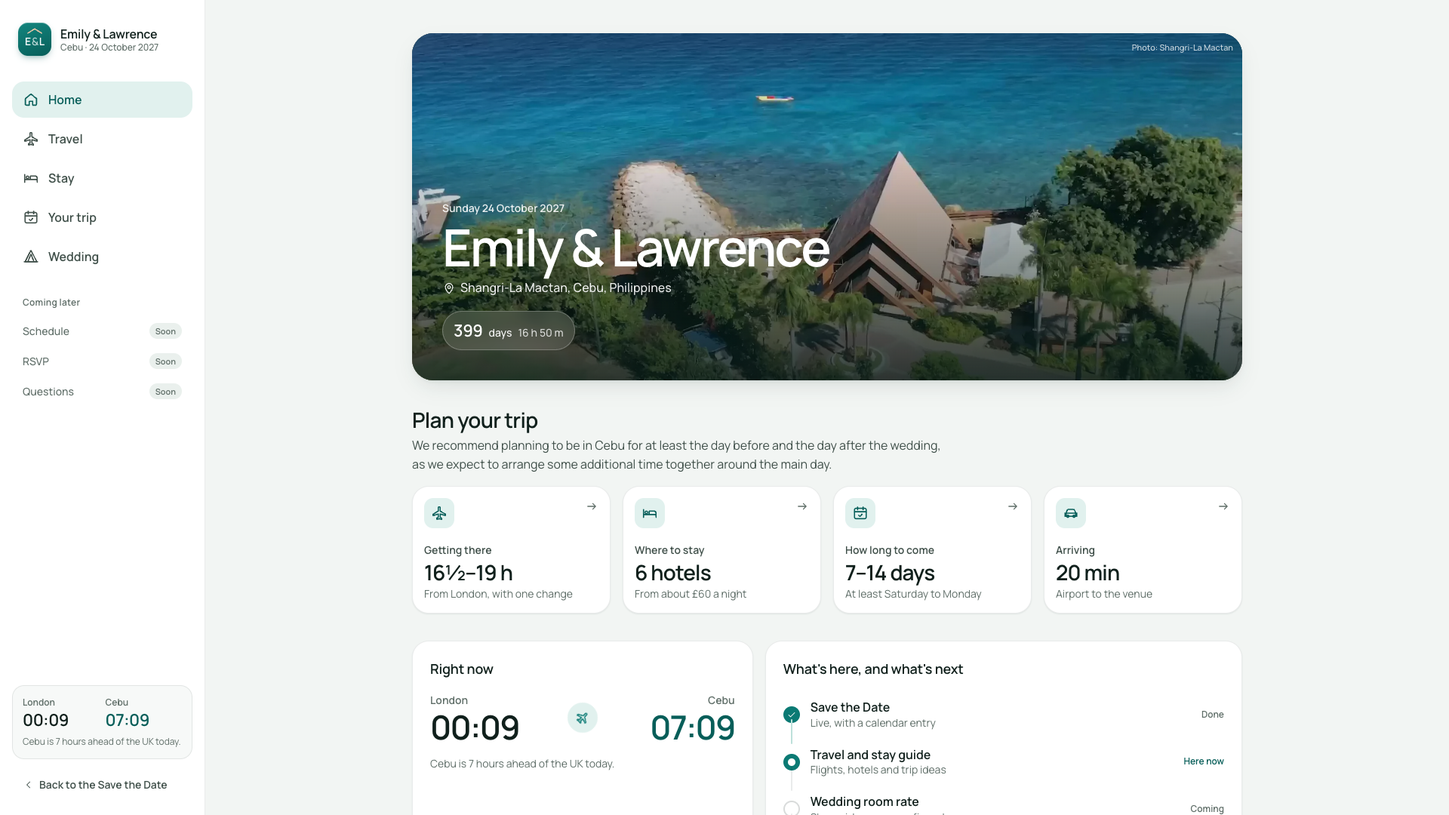
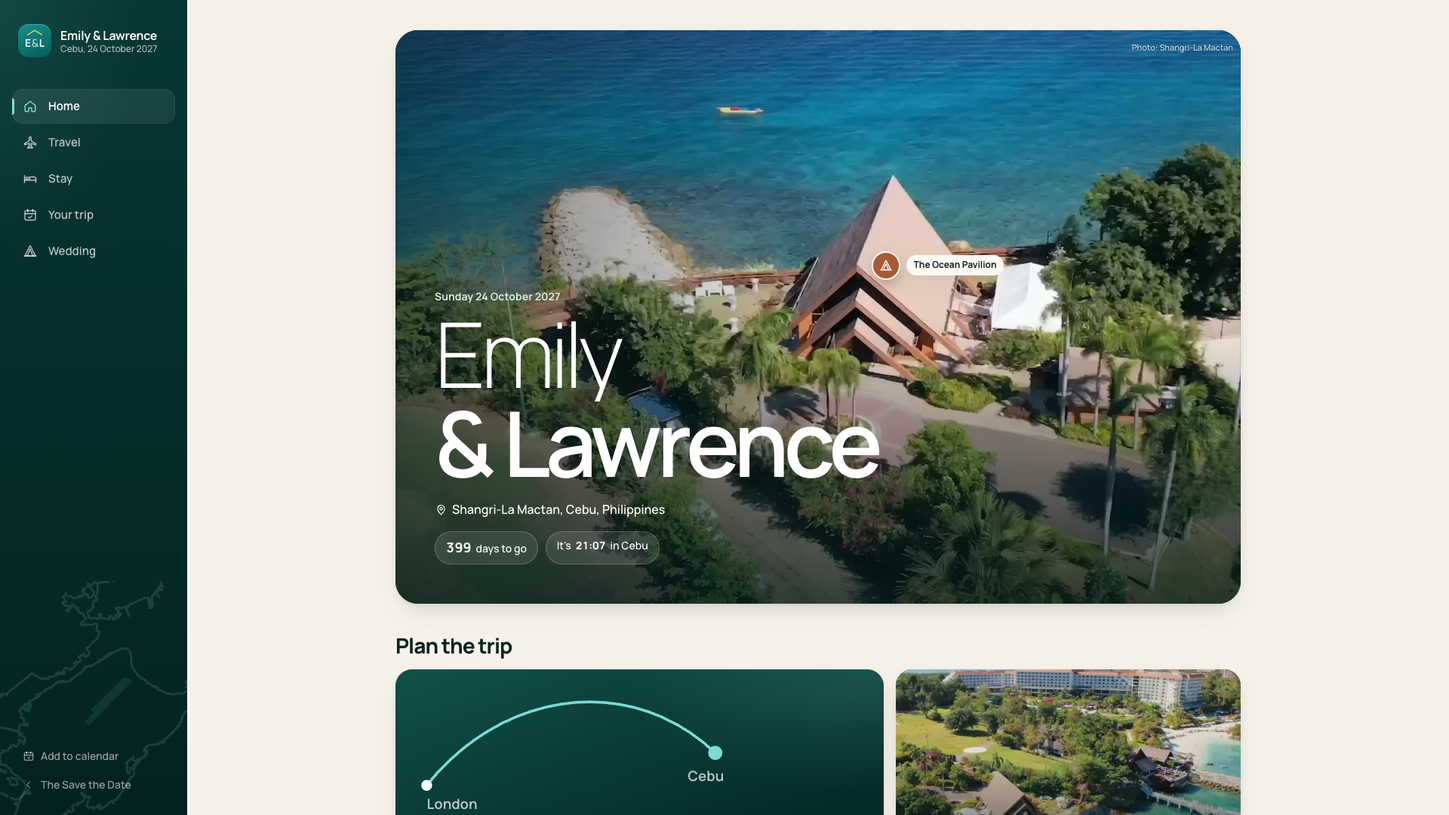
document round 3 with review screenshots

diff --git a/docs/TRAVEL_AND_STAY.md b/docs/TRAVEL_AND_STAY.md
@@ -1,91 +1,104 @@
-# Guest companion (round 2)
+# Guest companion (round 3)
 
-The Wedding website as a product: a guest companion app for a destination wedding. It is a
-separate thing from the Save the Date at `/`, which will link out to it. Built for review on
+The Wedding website as a product: **Emily & Lawrence's Cebu wedding companion**, a small app
+guests move into after the Save the Date at `/` (which will link out to it). Built for review on
 branch `feat/travel-and-stay`; not linked from the invitation yet; `noindex`.
 
-| Screen      | Route       | Job                                                         |
-| ----------- | ----------- | ----------------------------------------------------------- |
-| Home        | `/welcome/` | What you need to know, countdown, clocks, what is coming    |
-| Travel      | `/travel/`  | Flights (routes, fares), Arriving (airport), Before you fly |
-| Stay        | `/stay/`    | Six hotels as cards, linked to a real map of Mactan         |
-| Your trip   | `/trip/`    | 7 / 10 / 14-day trip shapes and ideas for the extra days    |
-| The wedding | `/wedding/` | Date, venue, calendar, what is still to come                |
+| Screen      | Route       | Signature interaction                                                                |
+| ----------- | ----------- | ------------------------------------------------------------------------------------ |
+| Home        | `/welcome/` | The arrival: Mactan's coastline draws, a pin lands, the Pavilion photo opens from it |
+| Travel      | `/travel/`  | The London → Cebu journey: three routes on one timeline, flown on a map              |
+| Stay        | `/stay/`    | Hotel ↔ map explorer: camera, drive, re-ranking pins, a sheet grown from the photo   |
+| Your trip   | `/trip/`    | The wedding window, then "Making a holiday of it?": 7 / 10 / 14 days reshape the map |
+| The wedding | `/wedding/` | The Pavilion arrives from Home, the roof line draws, the light turns to golden hour  |
 
-Governing brief: `Wedding Planning/Wed-Site/Build Briefs/Wedding Website — Intention Brief (Round 2).md`
-in the vault. It records Lawrence's round 1 feedback and applies the Akari design principles to
-UI, motion and interaction. Facts and sources: [TRAVEL_AND_STAY_EVIDENCE.md](TRAVEL_AND_STAY_EVIDENCE.md).
-Photography, map data and the **deployment gate**: [TRAVEL_AND_STAY_ASSETS.md](TRAVEL_AND_STAY_ASSETS.md).
+Governing briefs, in the vault: `Wed-Site/Review/Travel & Stay/Feedback — Round 3.md` (this
+round), on top of `Build Briefs/Wedding Website — Intention Brief (Round 2).md`. Facts and
+sources: [TRAVEL_AND_STAY_EVIDENCE.md](TRAVEL_AND_STAY_EVIDENCE.md). Photography, map data and the
+**deployment gate**: [TRAVEL_AND_STAY_ASSETS.md](TRAVEL_AND_STAY_ASSETS.md).
 
-## In plain English
+## What round 3 changed
 
-A calm, polished travel app for this one wedding. It keeps the wedding site's light,
-green-leaning family, but not the invitation's frosted glass, script or serif. It uses one
-product typeface (Manrope) and white cards on a soft mist background. Lagoon teal (the water
-in the venue film) marks actions and journeys; timber (the Ocean Pavilion's roof) is kept for
-the wedding itself.
+Round 2's architecture stays: five real pages, the desktop rail, the phone app bar, menu sheet
+and five-icon tab bar, directional page transitions, the combined flight timeline, hotel ↔ map
+state, sorting, native controls, no backend and no live APIs. Round 3 adds the art direction
+and the choreography.
 
-It behaves like an app:
+- **Look.** Warm ivory and sand for the page; deep lagoon for the chrome and the journey;
+  tropical shallows for light on dark; lush green islands; timber (the Pavilion's roof) and
+  sunset for the wedding. Manrope throughout, now its full 200–800 range: light, huge display
+  type for names and dates, heavy numerals for durations and prices, quiet UI text.
+- **Fewer containers.** Cards are for things you choose (routes, hotels, places). Facts,
+  options and notes sit on the page as type and rows.
+- **Guest-facing only.** The roadmap, "Coming later", "Here now" and the rail clocks are gone.
+  What the wedding screen will add is written for guests ("Still to come, here").
+- **Your trip reframed.** The wedding needs only Saturday 23 to Monday 25 October; everything
+  either side is the guest's holiday. 7, 10 and 14 days are inspiration, not an itinerary.
 
-- On desktop, a persistent side rail carries the destinations, the "coming later" items, live
-  London and Cebu clocks, and a way back to the Save the Date.
-- On phones, a top bar takes over the screen's title as you scroll, a floating tab bar holds
-  the five destinations, and a menu sheet holds the whole site structure.
-- Moving between screens slides in the direction you are travelling through the tabs, and the
-  active-tab highlight glides to its new tab (cross-document View Transitions, no framework).
+## Motion system
 
-## What moves, and why
+One grammar (`src/styles/app.css`, mirrored in `src/scripts/app/motion.ts`):
+`ease-out` (0.23, 1, 0.32, 1) for entering and state, `ease-in-out` (0.77, 0, 0.175, 1) for
+on-screen travel, `drawer` (0.32, 0.72, 0, 1) for sheets, pushes and thumbs, and one
+overshoot (easeOutBack) kept for things that land on a map. Transform, opacity, clip-path and
+SVG stroke drawing; registered custom properties (`--z`, `--tx`, `--ty`, `--own`) for the map
+cameras and the itinerary band.
 
-Akari method: expansion first (this build), compression after review.
+| Where             | What moves                                                                                                                                                                                                                                       | Job                            |
+| ----------------- | ------------------------------------------------------------------------------------------------------------------------------------------------------------------------------------------------------------------------------------------------ | ------------------------------ |
+| Every screen      | Native-style push in the direction of travel; the tab pill glides and the new tab draws its icon; a photograph that leads to the next screen flies there (Home → Wedding)                                                                        | Orientation, continuity        |
+| Menu              | Sheet rises on the drawer curve, rows arrive in turn, the burger folds into a cross                                                                                                                                                              | Spatial, feedback              |
+| Home              | First visit: coastline draws (real OSM Mactan), pin lands and ripples, map dives into the pin as the photo opens from it, names rise line by line, days count up. Later visits: a short settle                                                   | Arrival, sense of place        |
+| Home doors        | The Travel door flies its own London → Cebu arc when seen; photos lean in on hover                                                                                                                                                               | Invitation to explore          |
+| Travel · Flights  | One clock drives a plane along the chosen lane and across the map; durations resolve as it passes; at the hub the map plane waits while the timeline keeps running; other routes recede; total counts up                                         | Explanation, comparison        |
+| Travel · Arriving | A plane lands along the real runway, then a car leads the drive line to Shangri-La and the distance lands on it                                                                                                                                  | Explanation                    |
+| Before you fly    | Each tick draws itself and fills the ring; the last one turns the ring into a plane                                                                                                                                                              | Confirmation, reward           |
+| Stay              | Pin rises; camera frames hotel and venue; a car drives the line, then the drive time lands; sorting slides cards (FLIP), renumbers cards and pins, hops pins in order; the details sheet grows from the photo                                    | Connection, cause and effect   |
+| Stay (phones)     | The centred card in the rail drives the map; off-centre cards ease back (scroll-driven)                                                                                                                                                          | Control and result in one view |
+| Your trip         | The window assembles (wedding lands, Saturday and Monday slide out, bracket draws); 7 / 10 / 14 moves the map camera, pops in new places, draws arcs from Mactan, grows the band, rearranges the cards; the active place fans its activities out | The trip genuinely expanding   |
+| The wedding       | The roof line draws over the date; scrolling warms the light and sinks a sun across the Pavilion                                                                                                                                                 | Feeling: reaching the reason   |
 
-| Where          | Motion                                                                                                         | Job                                         |
-| -------------- | -------------------------------------------------------------------------------------------------------------- | ------------------------------------------- |
-| Everywhere     | Screen slides with direction; active pill morphs                                                               | Orientation: where you went, and from where |
-| Phones         | App-bar title appears once the big title scrolls away                                                          | Orientation                                 |
-| Home           | Venue photo settles; plan tiles rise in turn                                                                   | Entry                                       |
-| Travel         | Tab thumb slides; panel fades in                                                                               | State change                                |
-| Flights        | Route line draws to flying time with a plane at its tip; fare dot lifts                                        | Explanation and comparison                  |
-| Arriving       | Airport-to-venue line draws on the real coastline, then its label                                              | Explanation                                 |
-| Before you fly | Tick, and the progress ring fills                                                                              | Confirmation                                |
-| Stay           | Card lifts; its pin grows; a line draws to the venue with the drive time; sort moves cards to their new places | Connection (card ↔ map)                     |
-| Your trip      | Days re-flow into the new shape; idea cards rise                                                               | State change                                |
-| Menu           | Sheet slides up from the bottom                                                                                | Spatial                                     |
-
-One motion grammar: `cubic-bezier(0.23, 1, 0.32, 1)` (ease-out) for entering and state,
-`cubic-bezier(0.77, 0, 0.175, 1)` for on-screen travel, `cubic-bezier(0.32, 0.72, 0, 1)` for the
-sheet and the tab morph. Transform and opacity only (plus SVG line drawing). Nothing loops.
-
-**Reduced motion** (`prefers-reduced-motion` or `?motion=reduced`): every state still changes,
-instantly; lines appear drawn; navigation is a direct swap.
+**Reduced motion** (`prefers-reduced-motion` or `?motion=reduced`) is its own state: every
+change still happens, instantly. Lines are drawn, planes are parked at their destination, maps
+cut to their frame, the arrival shows its resting state, and navigation is a direct swap.
 
 ## Without JavaScript
 
-Every destination is a normal page and every link works. Route choice, trip length and sort
-are native radio buttons (selection shown with CSS `:has()`; older browsers show every option's
-content). The Travel tabs fall back to all three sections in order. The menu uses the native
-`popover` attribute and opens without script. Only the clocks, countdown, checklist memory,
-phone rail sync and card ↔ pin highlighting need JavaScript.
+Every destination is a normal page and every link works. Route choice, trip length and sort are
+native radio buttons; the chosen route's lit line and details, and the places and band for the
+chosen trip length, show through CSS `:has()`. The Travel tabs fall back to all three sections
+in order, hotel cards show their full details, the menu uses the native `popover` attribute,
+and Home shows its resting state. Only the flights, landings, drives, camera moves, counts,
+checklist memory and the phone rail sync need JavaScript.
 
 ## Files
 
-- Shell: `src/layouts/AppShell.astro`, `src/scripts/app/shell.ts`, `src/styles/app.css`,
-  `src/styles/view-transitions.css` (inlined into every page's head)
-- Screens: `src/pages/{welcome,travel,stay,trip,wedding}/index.astro`, `src/styles/app-screens.css`
-- Components: `src/components/app/` (icons, monogram, pictures, links, map),
-  `src/components/travel/`, `src/components/stay/`
-- Behaviour: `src/scripts/app/{tabs,checklist,stay}.ts`
-- Data: `src/data/travel.ts` (facts, hotels, trips, images), `src/data/site.ts` (destinations,
-  coming later, venue images), `src/data/mactan-geo.ts` (OpenStreetMap coastline)
+- Shell: `src/layouts/AppShell.astro` (with the morph and arrival hand-off script),
+  `src/scripts/app/shell.ts`, `src/styles/app.css`, `src/styles/view-transitions.css` (inlined)
+- Screens: `src/pages/{welcome,travel,stay,trip,wedding}/index.astro`, with
+  `src/styles/screen-{home,travel,stay,trip,wedding}.css`, `map.css` and `window.css`
+- Components: `src/components/app/` (icons, monogram, pictures, coastline, Mactan map),
+  `src/components/travel/` (FlightPlanner, FareScale, ArrivalPanel, PrepChecklist),
+  `src/components/stay/` (HotelCard, StayMap), `src/components/trip/` (WeddingWindow,
+  HolidayExplorer)
+- Behaviour: `src/scripts/app/{motion,welcome,tabs,journey,arrive,checklist,stay,trip,window,wedding}.ts`
+- Data: `src/data/travel.ts` (flights, hotels, the wedding window, holiday places and lengths),
+  `src/data/site.ts` (destinations, venue images, what the wedding screen will add),
+  `src/data/mactan-geo.ts` (OpenStreetMap), `src/data/land-geo.ts` (Natural Earth),
+  `src/lib/geo.ts`, `src/lib/travel-plot.ts`
 - Tests: `tests/travel.test.ts`
 
 ## Updating
 
 - **Prices:** `fareFrom`, `budget`, `priceFrom` and `travelMeta.checked` in `src/data/travel.ts`,
   plus the evidence register.
+- **Connections:** `connection` on each route; the drawn journey is both flights plus the
+  connection, and a test keeps it within the airline's quoted time.
 - **Suggested route:** move `featured: true`.
-- **Wedding room rate confirmed:** change Shangri-La's `note`, move "Wedding room rate" to
-  `done` in `readiness` (`src/data/site.ts`).
-- **A new section (Schedule, RSVP, Questions):** add a page, add it to `destinations`, and
-  remove it from `comingLater`. The tab bar holds five; beyond that, move one into the menu
-  sheet.
+- **Wedding room rate confirmed:** change Shangri-La's `note`.
+- **Holiday places:** `holidayPlaces` (with `from: 7 | 10 | 14`, a pin `label` side, and an image
+  in the asset register); the map view for each length is `holidayLengths[].view`. Tests check
+  every place sits inside its length's view and on land.
+- **A new section (Schedule, RSVP, Questions):** add a page and add it to `destinations`, then
+  take it out of `weddingToCome`. The tab bar holds five; beyond that, move one into the menu.
 - **Hotel photographs:** see the deployment gate in the asset register.

diff --git a/docs/TRAVEL_AND_STAY_EVIDENCE.md b/docs/TRAVEL_AND_STAY_EVIDENCE.md
@@ -148,3 +148,17 @@ done
 | Mactan's coastline, runway and islands on the maps                                                       | OpenStreetMap, fetched 18 Sep 2026 (see the asset register)                  | High for shape at this scale. A test confirms every hotel and the airport sit inside Mactan's coastline       |
 | Cebu is 7 hours ahead on the wedding weekend and 8 after 31 Oct 2027                                     | Computed live from the `Europe/London` and `Asia/Manila` time zones (tested) | High                                                                                                          |
 | Trip idea photos (Nalusuan, Bohol, Moalboal, El Nido), airport photo                                     | Wikimedia Commons, CC BY / CC BY-SA, credited on screen                      | High (licences recorded in the asset register)                                                                |
+
+## Round 3 additions (19 September 2026)
+
+| Fact on page                                                                                                                                                                  | Source                                                                                                                                                                                                                   | Confidence / limitation                                                                                                                   |
+| ----------------------------------------------------------------------------------------------------------------------------------------------------------------------------- | ------------------------------------------------------------------------------------------------------------------------------------------------------------------------------------------------------------------------ | ----------------------------------------------------------------------------------------------------------------------------------------- |
+| Cathay London → Hong Kong 12 h 50 m (the journey's first leg, was 13 h 05 m)                                                                                                  | Heathrow timetable for CX250 (18:20 BST → 14:10 HKT next day), via flight-schedule summaries                                                                                                                             | Medium. Keeps the drawn journey at Cathay's own "around 16 hours and 30 minutes, including the layover"                                   |
+| Changing planes: about 1 h (Hong Kong), about 1½ h (Singapore), about 2½ h (Dubai)                                                                                            | Derived: each airline's published door-to-door time less the scheduled flying time. Emirates: 18 h 55 m–19 h 00 m less 16 h 25 m. Cathay: 16 h 30 m less 15 h 35 m. Singapore Airlines: its 17–19 h range less 17 h 25 m | Medium. These are the quickest usual connections; the page says many itineraries wait longer. Recheck against real October 2027 schedules |
+| The wedding window: be in Cebu by Saturday 23 October; no onward travel before Monday 25 October                                                                              | Emily and Lawrence's Round 3 brief                                                                                                                                                                                       | High (their instruction)                                                                                                                  |
+| Siargao about 1 h by air from Cebu (Cebu Pacific, Philippine Airlines)                                                                                                        | PAL and Cebu Pacific route pages; flight-search summaries ("about 50 minutes", "shortest 55 min")                                                                                                                        | Medium                                                                                                                                    |
+| Coron (Busuanga) about 1 h 20 m by air from Cebu (Cebgo, PAL, Sunlight Air)                                                                                                   | FlightConnections CEB–USU ("1 hour and 20 minutes", 29 flights a week, July 2026)                                                                                                                                        | Medium                                                                                                                                    |
+| Kawasan Falls 30–45 minutes south of Moalboal; canyoneering on the Kanlaob River                                                                                              | Travel guides (WhyCebu, Best of Moalboal, JourneyEra)                                                                                                                                                                    | Medium                                                                                                                                    |
+| Cebu City 30–60 minutes from Mactan by road, traffic allowing                                                                                                                 | Google Maps typical drive times across the Mactan bridges                                                                                                                                                                | Medium. Traffic varies widely                                                                                                             |
+| Siargao: Cloud 9, Daku, Guyam and Naked Island; Coron: Kayangan Lake, hot springs, wreck diving; Cebu City: Magellan's Cross, Basilica del Santo Niño, Fort San Pedro, lechon | Standard destination guides; Wikimedia Commons subjects                                                                                                                                                                  | High for the attractions; no prices or schedules are given                                                                                |
+| Direct flights from Mactan-Cebu to Siargao, El Nido and Coron, so no need to go back through Manila                                                                           | The route rows above                                                                                                                                                                                                     | Medium                                                                                                                                    |

diff --git a/docs/TRAVEL_AND_STAY_ASSETS.md b/docs/TRAVEL_AND_STAY_ASSETS.md
@@ -21,12 +21,12 @@ files are WebP in `public/assets/guide/`, named `{name}-{width}.webp`.
 Frames from `public/assets/stage/video/venue-ocean-pavilion.mp4`, which is cut from
 Shangri-La Mactan's own Event Spaces film (see `docs/OCEAN_PAVILION_VIDEO.md`).
 
-| Name                | Frame | Used on                  | Status     |
-| ------------------- | ----- | ------------------------ | ---------- |
-| `venue-aerial`      | 0     | Home hero                | Venue film |
-| `pavilion-exterior` | 120   | The wedding, Home teaser | Venue film |
-| `pavilion-interior` | 170   | The wedding              | Venue film |
-| `stay-shangri-la`   | 420   | Stay (Shangri-La card)   | Venue film |
+| Name                | Frame | Used on                                | Status     |
+| ------------------- | ----- | -------------------------------------- | ---------- |
+| `venue-aerial`      | 0     | Home hero (the arrival)                | Venue film |
+| `pavilion-exterior` | 120   | The wedding hero, Home wedding door    | Venue film |
+| `pavilion-interior` | 170   | The wedding (the venue)                | Venue film |
+| `stay-shangri-la`   | 420   | Stay (Shangri-La card), Home stay door | Venue film |
 
 ## Hotel photographs
 
@@ -43,15 +43,44 @@ Shangri-La Mactan's own Event Spaces film (see `docs/OCEAN_PAVILION_VIDEO.md`).
 Credited on screen with a link to the licence. CC BY-SA images are used unmodified apart from
 resizing and format conversion.
 
-| Name             | Subject                | Author               | Licence      | Source                                                                                                 |
-| ---------------- | ---------------------- | -------------------- | ------------ | ------------------------------------------------------------------------------------------------------ |
-| `idea-nalusuan`  | Nalusuan island        | Martin Michlmayr     | CC BY-SA 4.0 | https://commons.wikimedia.org/wiki/File:Nalusuan_dive_trip_June_2025_067.jpg                           |
-| `idea-bohol`     | Chocolate Hills, Bohol | Wolfgang Hägele      | CC BY-SA 4.0 | https://commons.wikimedia.org/wiki/File:Chocolate_Hills_Carmen_Bohol_2019.jpg                          |
-| `idea-moalboal`  | Sardine run, Moalboal  | Iampjanz             | CC BY-SA 4.0 | https://commons.wikimedia.org/wiki/File:Sardine_run_over_seafloor_in_Moalboal_04.jpg                   |
-| `idea-elnido`    | Bacuit Bay, El Nido    | Vyacheslav Argenberg | CC BY 4.0    | https://commons.wikimedia.org/wiki/File:Island_lagoon_in_Bacuit_Bay,_El_Nido,_Palawan,_Philippines.jpg |
-| `arrive-airport` | Mactan-Cebu Terminal 2 | Ralff Nestor Nacor   | CC BY-SA 4.0 | https://commons.wikimedia.org/wiki/File:Outside_Mactan-Cebu_International_Airport_Terminal_2.jpg       |
+| Name             | Subject                     | Author               | Licence      | Source                                                                                                 |
+| ---------------- | --------------------------- | -------------------- | ------------ | ------------------------------------------------------------------------------------------------------ |
+| `idea-nalusuan`  | Nalusuan island             | Martin Michlmayr     | CC BY-SA 4.0 | https://commons.wikimedia.org/wiki/File:Nalusuan_dive_trip_June_2025_067.jpg                           |
+| `idea-cebucity`  | Magellan's Cross, Cebu City | Elmer B. Domingo     | CC BY-SA 4.0 | https://commons.wikimedia.org/wiki/File:Magellan%27s_Cross_Cebu_City.jpg                               |
+| `idea-kawasan`   | Kawasan Falls, Badian       | Shemlongakit         | CC BY-SA 4.0 | https://commons.wikimedia.org/wiki/File:Badian_Kawasan_Falls_Cebu.jpg                                  |
+| `idea-siargao`   | Outrigger boats, Siargao    | ChaasPrime           | CC BY-SA 4.0 | https://commons.wikimedia.org/wiki/File:Siargao_14.jpg                                                 |
+| `idea-coron`     | Kayangan Lake, Coron        | Lyndon Aguila        | CC BY-SA 4.0 | https://commons.wikimedia.org/wiki/File:Kayangan_Lake,_Coron_Island.jpg                                |
+| `idea-bohol`     | Chocolate Hills, Bohol      | Wolfgang Hägele      | CC BY-SA 4.0 | https://commons.wikimedia.org/wiki/File:Chocolate_Hills_Carmen_Bohol_2019.jpg                          |
+| `idea-moalboal`  | Sardine run, Moalboal       | Iampjanz             | CC BY-SA 4.0 | https://commons.wikimedia.org/wiki/File:Sardine_run_over_seafloor_in_Moalboal_04.jpg                   |
+| `idea-elnido`    | Bacuit Bay, El Nido         | Vyacheslav Argenberg | CC BY 4.0    | https://commons.wikimedia.org/wiki/File:Island_lagoon_in_Bacuit_Bay,_El_Nido,_Palawan,_Philippines.jpg |
+| `arrive-airport` | Mactan-Cebu Terminal 2      | Ralff Nestor Nacor   | CC BY-SA 4.0 | https://commons.wikimedia.org/wiki/File:Outside_Mactan-Cebu_International_Airport_Terminal_2.jpg       |
+
+The four Round 3 additions (Cebu City, Kawasan, Siargao, Coron) were fetched on 19 Sep 2026 as
+2000-pixel renditions through the Commons API, centre-cropped to 3 : 2 and delivered at 700 and
+1200 wide.
 
 ## Map data
+
+### Natural Earth (Round 3)
+
+`src/data/land-geo.ts` holds two land maps, both from [Natural Earth](https://www.naturalearthdata.com/)
+(public domain), fetched on 19 Sep 2026 from the `nvkelso/natural-earth-vector` repository:
+
+- `philippines`: `ne_10m_land`, clipped to 116.4–128.2 E, 4.9–16.2 N, projected to kilometres
+  (equirectangular, reference latitude 10.5°), simplified with Douglas–Peucker at about 320 m,
+  dropping islands under about 1.2 km². Used by the Your trip map.
+- `londonToCebu`: `ne_50m_land`, clipped to 24 W–142 E, 14 S–66 N, reference latitude 30°,
+  simplified at about 22 km, dropping land under about 2,500 km². Used by the Travel journey.
+
+The file is generated data (listed in `.prettierignore`). To regenerate: download the two
+GeoJSON files, take each polygon's outer ring, clip it to the box (Sutherland–Hodgman), project
+with `project()` from `src/lib/geo.ts`, simplify each closed ring in two halves split at its
+farthest point, and write the flat `[x, y, …]` rings to one decimal. The test suite checks that
+every holiday place reached by road, ferry or air sits on land in the Philippines map (three
+pins sit slightly inland of their towns, where the simplified coast would otherwise put them
+in the sea: Tagbilaran, El Nido and Coron).
+
+### OpenStreetMap (Mactan)
 
 `src/data/mactan-geo.ts`: OpenStreetMap `natural=coastline` and `aeroway=runway` ways in the
 box 10.255–10.36 N, 123.925–124.075 E, fetched on 18 Sep 2026 through the Overpass API. The
